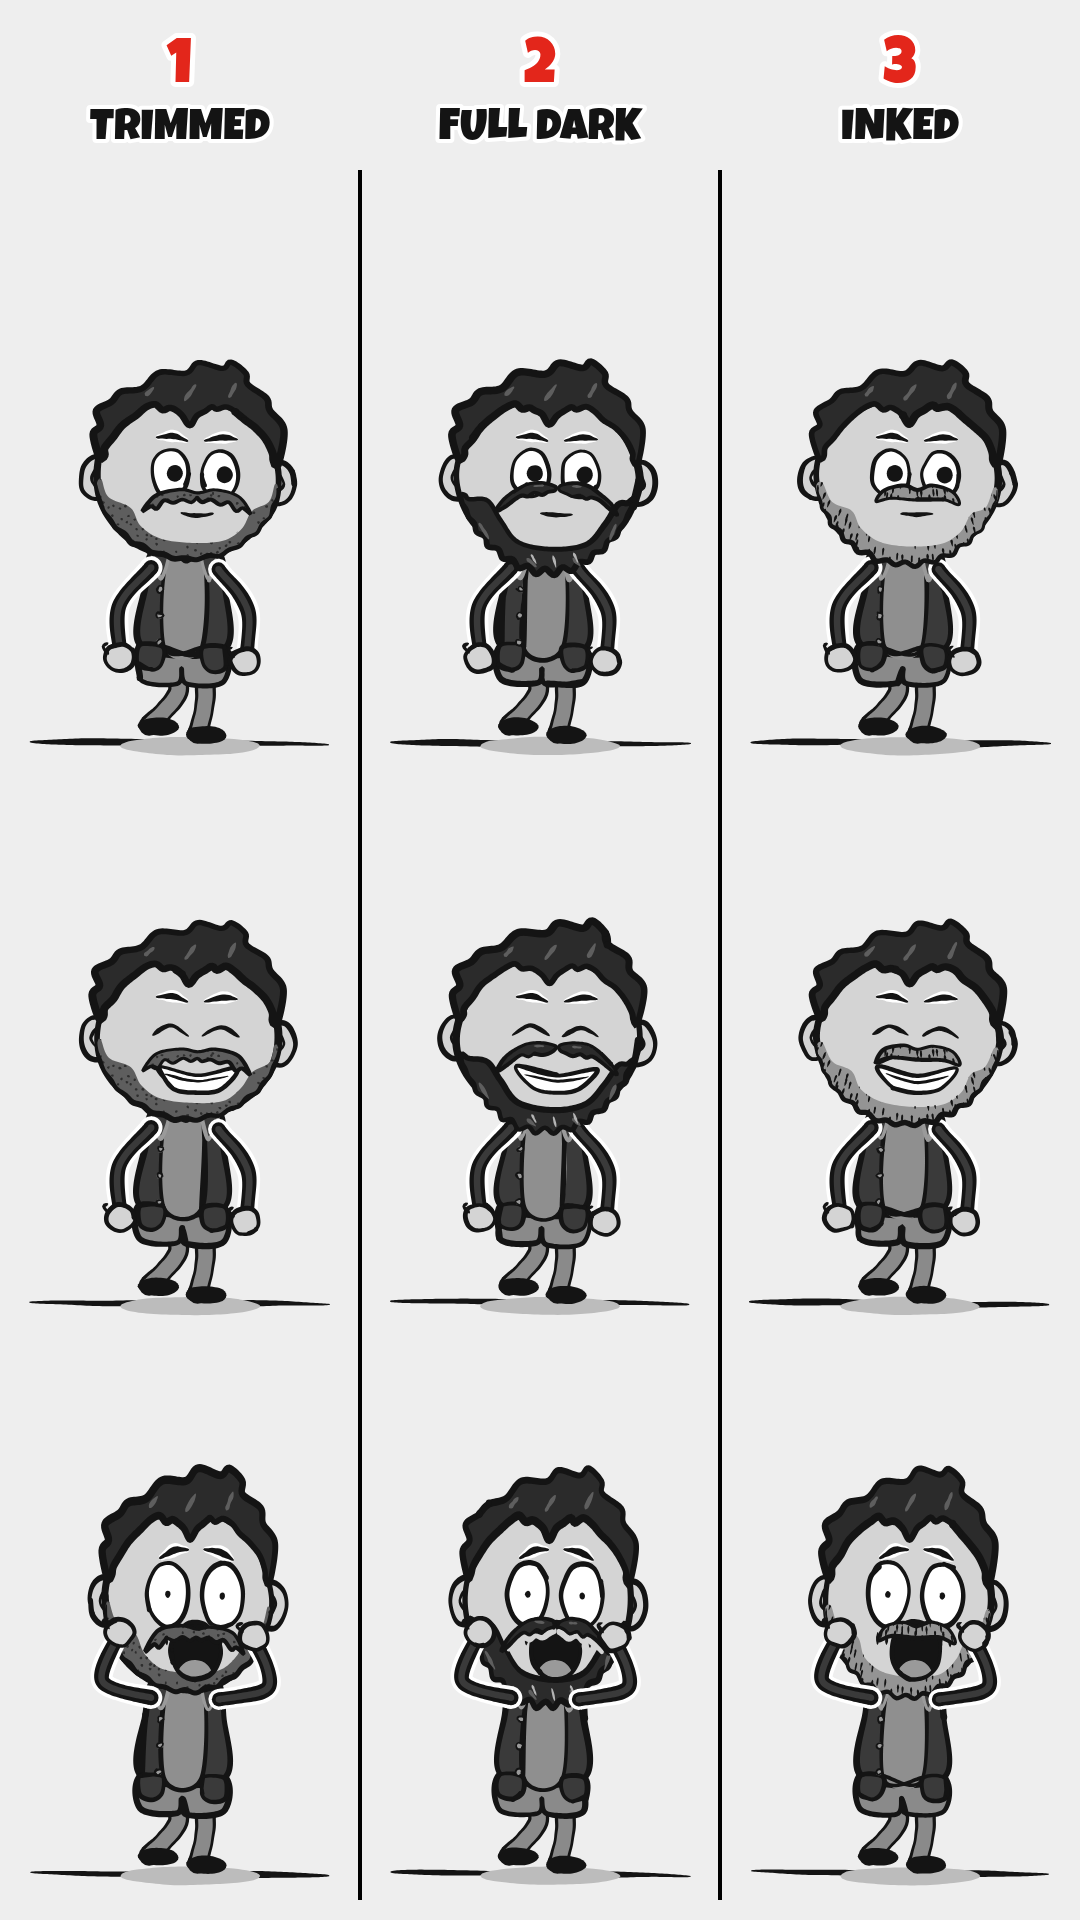
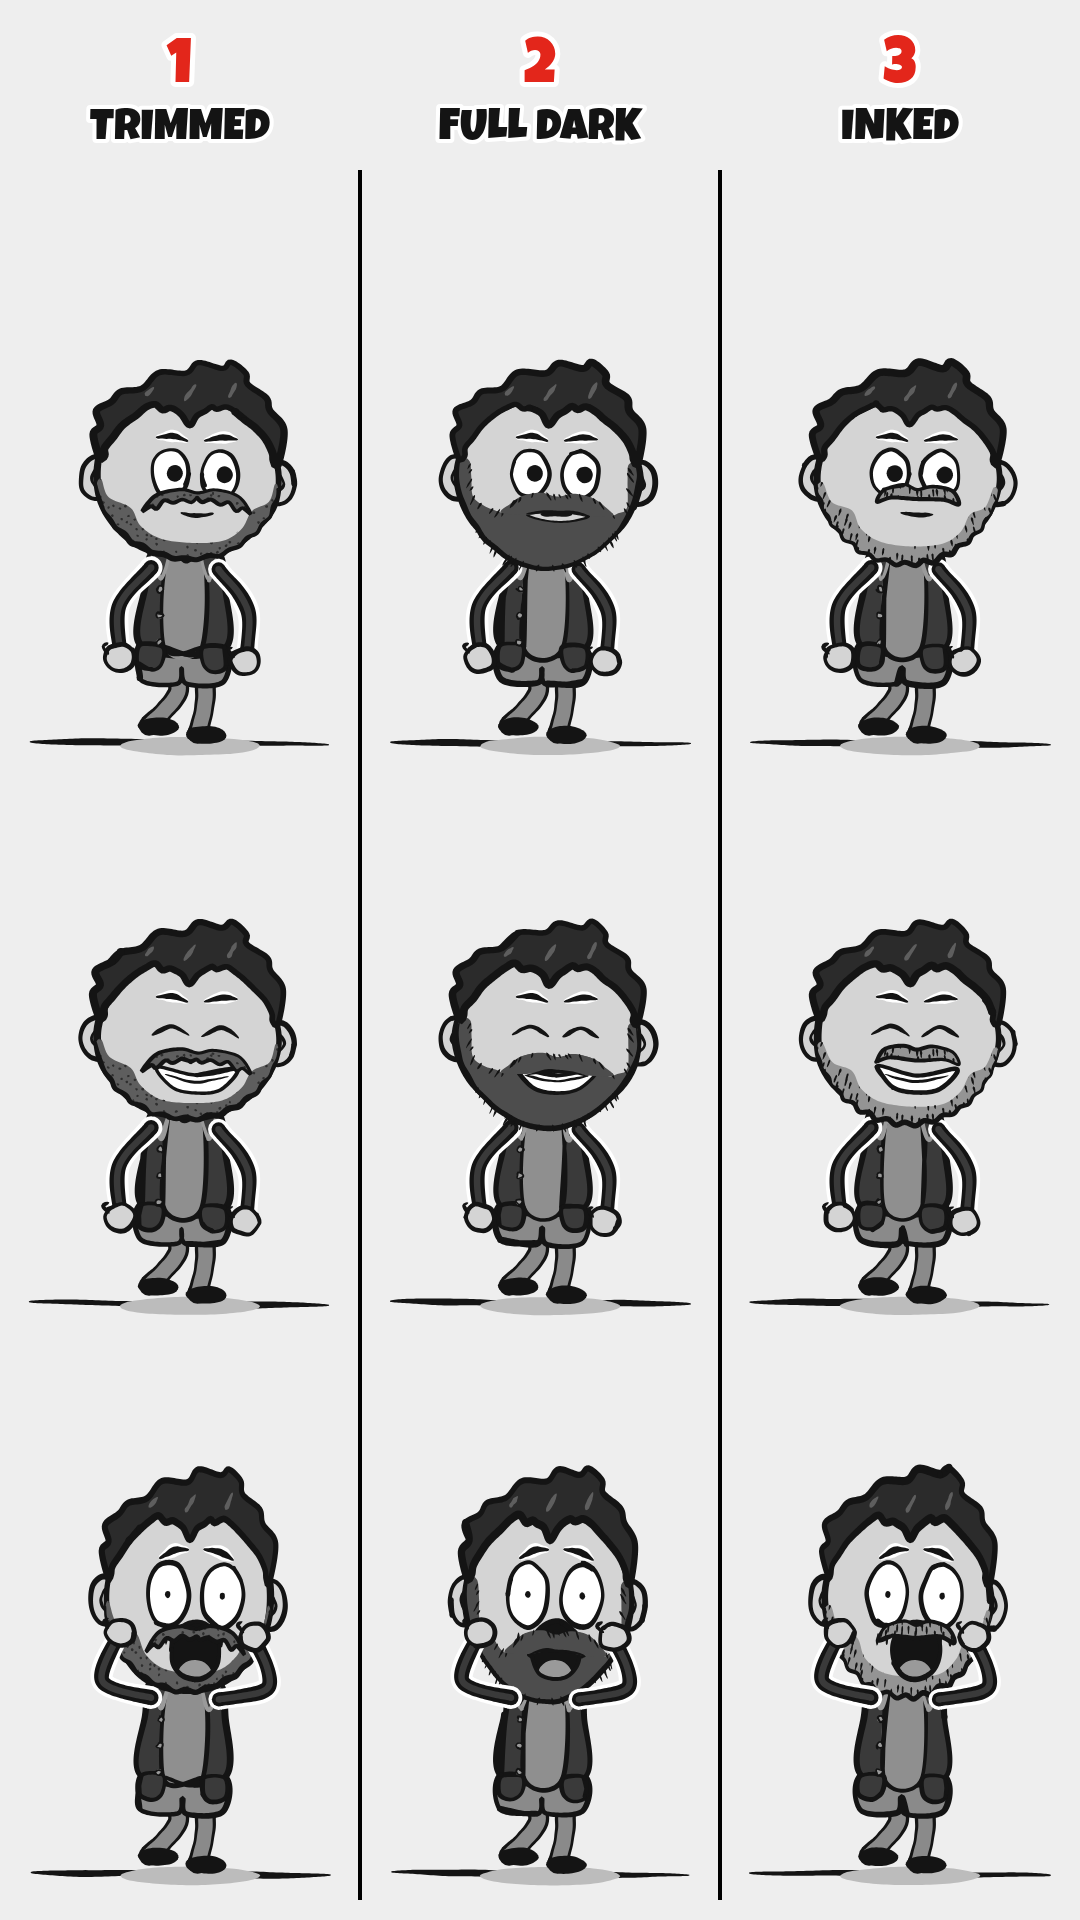
Squeex beard 2 (full dark): dark grey, sideburns, clean cheek line, rounded chin
One dark-grey shape with the moustache joined at the mouth corners and drawn
again over the mouth, so open mouths open beneath it. Uneven ink strokes along
the edges only, a flat fill inside, and it stretches with the jaw. head() now
passes the jaw and pose to beard() (other beards ignore them, renders unchanged).

Claude-Session: https://claude.ai/code/session_01RKmGcx8q1V1rbfKyx6bNrn

diff --git a/web/cameos.js b/web/cameos.js
@@ -66,7 +66,7 @@ const Cameos = (() => {
       const rage = p.mouth === 'rage';
       const open = p.mouth === 'yell' || rage ? (p.open ?? 0) : 0, jaw = (rage ? 60 : 46) * open;
       blob(ctx, 0, jaw * 0.5, RX - jaw * 0.1, RY + jaw * 0.5, { fill: o.skin ?? W, w: 11, n: 18, jit: 1.8 });
-      if (o.beard) { ctx.save(); ctx.translate(0, jaw); o.beard(ctx); ctx.restore(); }
+      if (o.beard) { ctx.save(); ctx.translate(0, jaw); o.beard(ctx, jaw, p); ctx.restore(); }   // beards that stretch with the jaw undo the translate
       o.hair?.(ctx);
       if (p.gloom) {   // dread: shading lines down the forehead
         ctx.save();
@@ -1308,6 +1308,71 @@ const Cameos = (() => {
     outline(ctx, m, { w: 6 });
   };
 
+  // 2b. Full dark, revised: a short, dense, full beard in one dark-grey shape
+  // (not black, so it stays apart from the hair and the jacket) with the
+  // moustache part of it: a clean cheek line from the sideburn down to the
+  // moustache corners, the moustache on the upper lip, a rounded full chin.
+  // Ink only at the edges (short strokes along the cheek line and the bottom),
+  // a flat fill inside. It stretches with the jaw; the mouth cuts into it.
+  const FULLB = '#4d4d4d';
+  // on a shocked gape the eyes are huge, so the moustache and lip sit a little lower
+  const fullDrop = p => p?.mouth === 'gape' ? 20 * (p.open ?? 0) / RY : 0;
+  const fullParts = d => {
+    const outer = [];
+    for (let i = 0; i <= 24; i++) {   // jaw edge, from the top of one sideburn to the other, round and a little fuller at the chin
+      const a = Math.PI * (-0.07 + 1.14 * i / 24), dn = Math.max(0, Math.sin(a));
+      outer.push([Math.cos(a) * 0.99, Math.sin(a) * 0.99 + 0.15 * dn * dn * dn]);
+    }
+    // cheek lines: down the sideburn in front of the ear, then a clean slope to the moustache corner
+    const cheekL = [[-0.86, -0.18], [-0.84, 0.02], [-0.82, 0.26], [-0.7, 0.38], [-0.56, 0.43 + d], [-0.46, 0.46 + d]];
+    const stache = [[-0.4, 0.34], [-0.26, 0.24], [-0.06, 0.2], [0.11, 0.24], [0.28, 0.2], [0.48, 0.24], [0.62, 0.34]].map(([x, y]) => [x, y + d]);
+    const cheekR = [[0.68, 0.46 + d], [0.78, 0.43 + d], [0.88, 0.36], [0.88, 0.02], [0.88, -0.18]];
+    // the upper lip line, and the lower lip showing under it (the mouth draws over both)
+    const lipTop = [[-0.22, 0.47], [-0.02, 0.43], [0.11, 0.43], [0.26, 0.43], [0.46, 0.47]].map(([x, y]) => [x, y + d]);
+    const lip = [...lipTop, ...[[0.3, 0.53], [0.11, 0.55], [-0.08, 0.53]].map(([x, y]) => [x, y + d])];
+    return { outer, cheekL, stache, cheekR, lipTop, lip };
+  };
+  // the lower the point, the further it drops with the jaw
+  const fullStretch = jaw => pts => hu(pts).map(([x, y]) => [x, y + jaw * Math.min(1, Math.max(0, (y / RY - 0.4) / 0.6))]);
+  // short strokes along an edge, uneven in length, spacing and angle, leaning down and out the way the hair grows
+  const hairEdge = (ctx, pts, k0, { len = 13, out = 3 } = {}) => {
+    for (let i = 0; i < pts.length - 1; i++) {
+      const n = 1 + Math.floor(hh(k0 + i * 7) * 2.6);
+      for (let j = 0; j < n; j++) {
+        const k = k0 + i * 7 + j * 3, f = (j + 0.2 + 0.6 * hh(k + 1)) / n;
+        const x = pts[i][0] + (pts[i + 1][0] - pts[i][0]) * f, y = pts[i][1] + (pts[i + 1][1] - pts[i][1]) * f;
+        const L = len * (0.55 + 0.8 * hh(k + 2)), lean = Math.sign(x || 1) * (0.15 + 0.35 * hh(k + 3)) + x / RX * 0.2;
+        const o = out * (0.4 + 1.2 * hh(k + 4));
+        stroke(ctx, [[x - lean * o, y - o], [x + lean * L, y + L - o]], { w: 3 + 1.2 * hh(k + 5), taper0: 0.3, taper1: 0.65, jit: 0.3 });
+      }
+    }
+  };
+  const beardFull2 = (ctx, jaw = 0, p) => {
+    ctx.translate(0, -jaw);   // stretch with the jaw instead of sliding down with it
+    const P = fullStretch(jaw), { outer, cheekL, stache, cheekR, lip } = fullParts(fullDrop(p));
+    fill(ctx, P([...outer, ...cheekL, ...stache, ...cheekR]), FULLB, 1);
+    const L = P(lip);
+    fill(ctx, L, SQ_SKIN, 0.6);
+    outline(ctx, L, { w: 4, jit: 0.4 });
+    const O = P(outer);
+    stroke(ctx, O, { w: 8, taper0: 0.3, taper1: 0.3 });   // the jaw edge
+    hairEdge(ctx, P(cheekL), 700);
+    hairEdge(ctx, P([...cheekR].reverse()), 740);
+    hairEdge(ctx, P(outer.slice(6, 19).map(([x, y]) => [x, y - 0.04])), 820, { len: 14, out: 0 });
+  };
+  // The moustache again on top of the mouth, so an open mouth opens downward from
+  // under it instead of eating it. Same fill, so it merges with the beard; ink on
+  // the lip edge and hair strokes along the top. Rage's huge mouth gets none.
+  const stacheFull2 = (ctx, fx, rage, p) => {
+    if (rage) return;
+    const jaw = p?.mouth === 'yell' ? 46 * (p.open ?? 0) : 0, P = fullStretch(jaw);
+    const { stache, lipTop } = fullParts(fullDrop(p));
+    const sh = [[-0.5, 0.46 + fullDrop(p)], ...stache, [0.72, 0.46 + fullDrop(p)], ...[...lipTop].reverse()];
+    fill(ctx, P(sh), FULLB, 1);
+    stroke(ctx, P(lipTop), { w: 5, taper0: 0.3, taper1: 0.3 });
+    hairEdge(ctx, P(stache), 780, { len: 11 });
+  };
+
   // C, with any beard and moustache: everything else is the chosen draft C
   const sqC = (beard, stache) => build({ skin: SQ_SKIN, shirt: '#3a3a3a', sleeve: '#3a3a3a', headScale: [1.04, 0.98],
     body: { legColor: '#8a8a8a',   // khakis, a mid grey so they don't read as bare legs, waist to ankle
@@ -1324,7 +1389,7 @@ const Cameos = (() => {
       head: head({ skin: SQ_SKIN, hair: sqHair(SQ_TUFT), beard: sqBeard(), front: sqStache, hat: headphones, browW: 9 }),
       detail: boxrTee }),
     overshirt: sqC(sqBeard({ full: 0.12, flecks: true }), sqStache),
-    beards: { trimmed: sqC(beardTrim, stacheTrim), full: sqC(beardFull, stacheFull), inked: sqC(beardInked, stacheInked) },
+    beards: { trimmed: sqC(beardTrim, stacheTrim), full: sqC(beardFull2, stacheFull2), fullOld: sqC(beardFull, stacheFull), inked: sqC(beardInked, stacheInked) },
   };
 
   return { squeex, speed, ludwig, beast, nick: nickMidPart, nickOld: nickBack.same, slime, originals, originals2, men, spikyShades, spikyAccents, nickAlts, nickFlow, nickOutline, nickBack, nickMidPart, nickMidLayered, props: { cash, bigCheck }, parts: { build, head, hh, RX, RY } };
